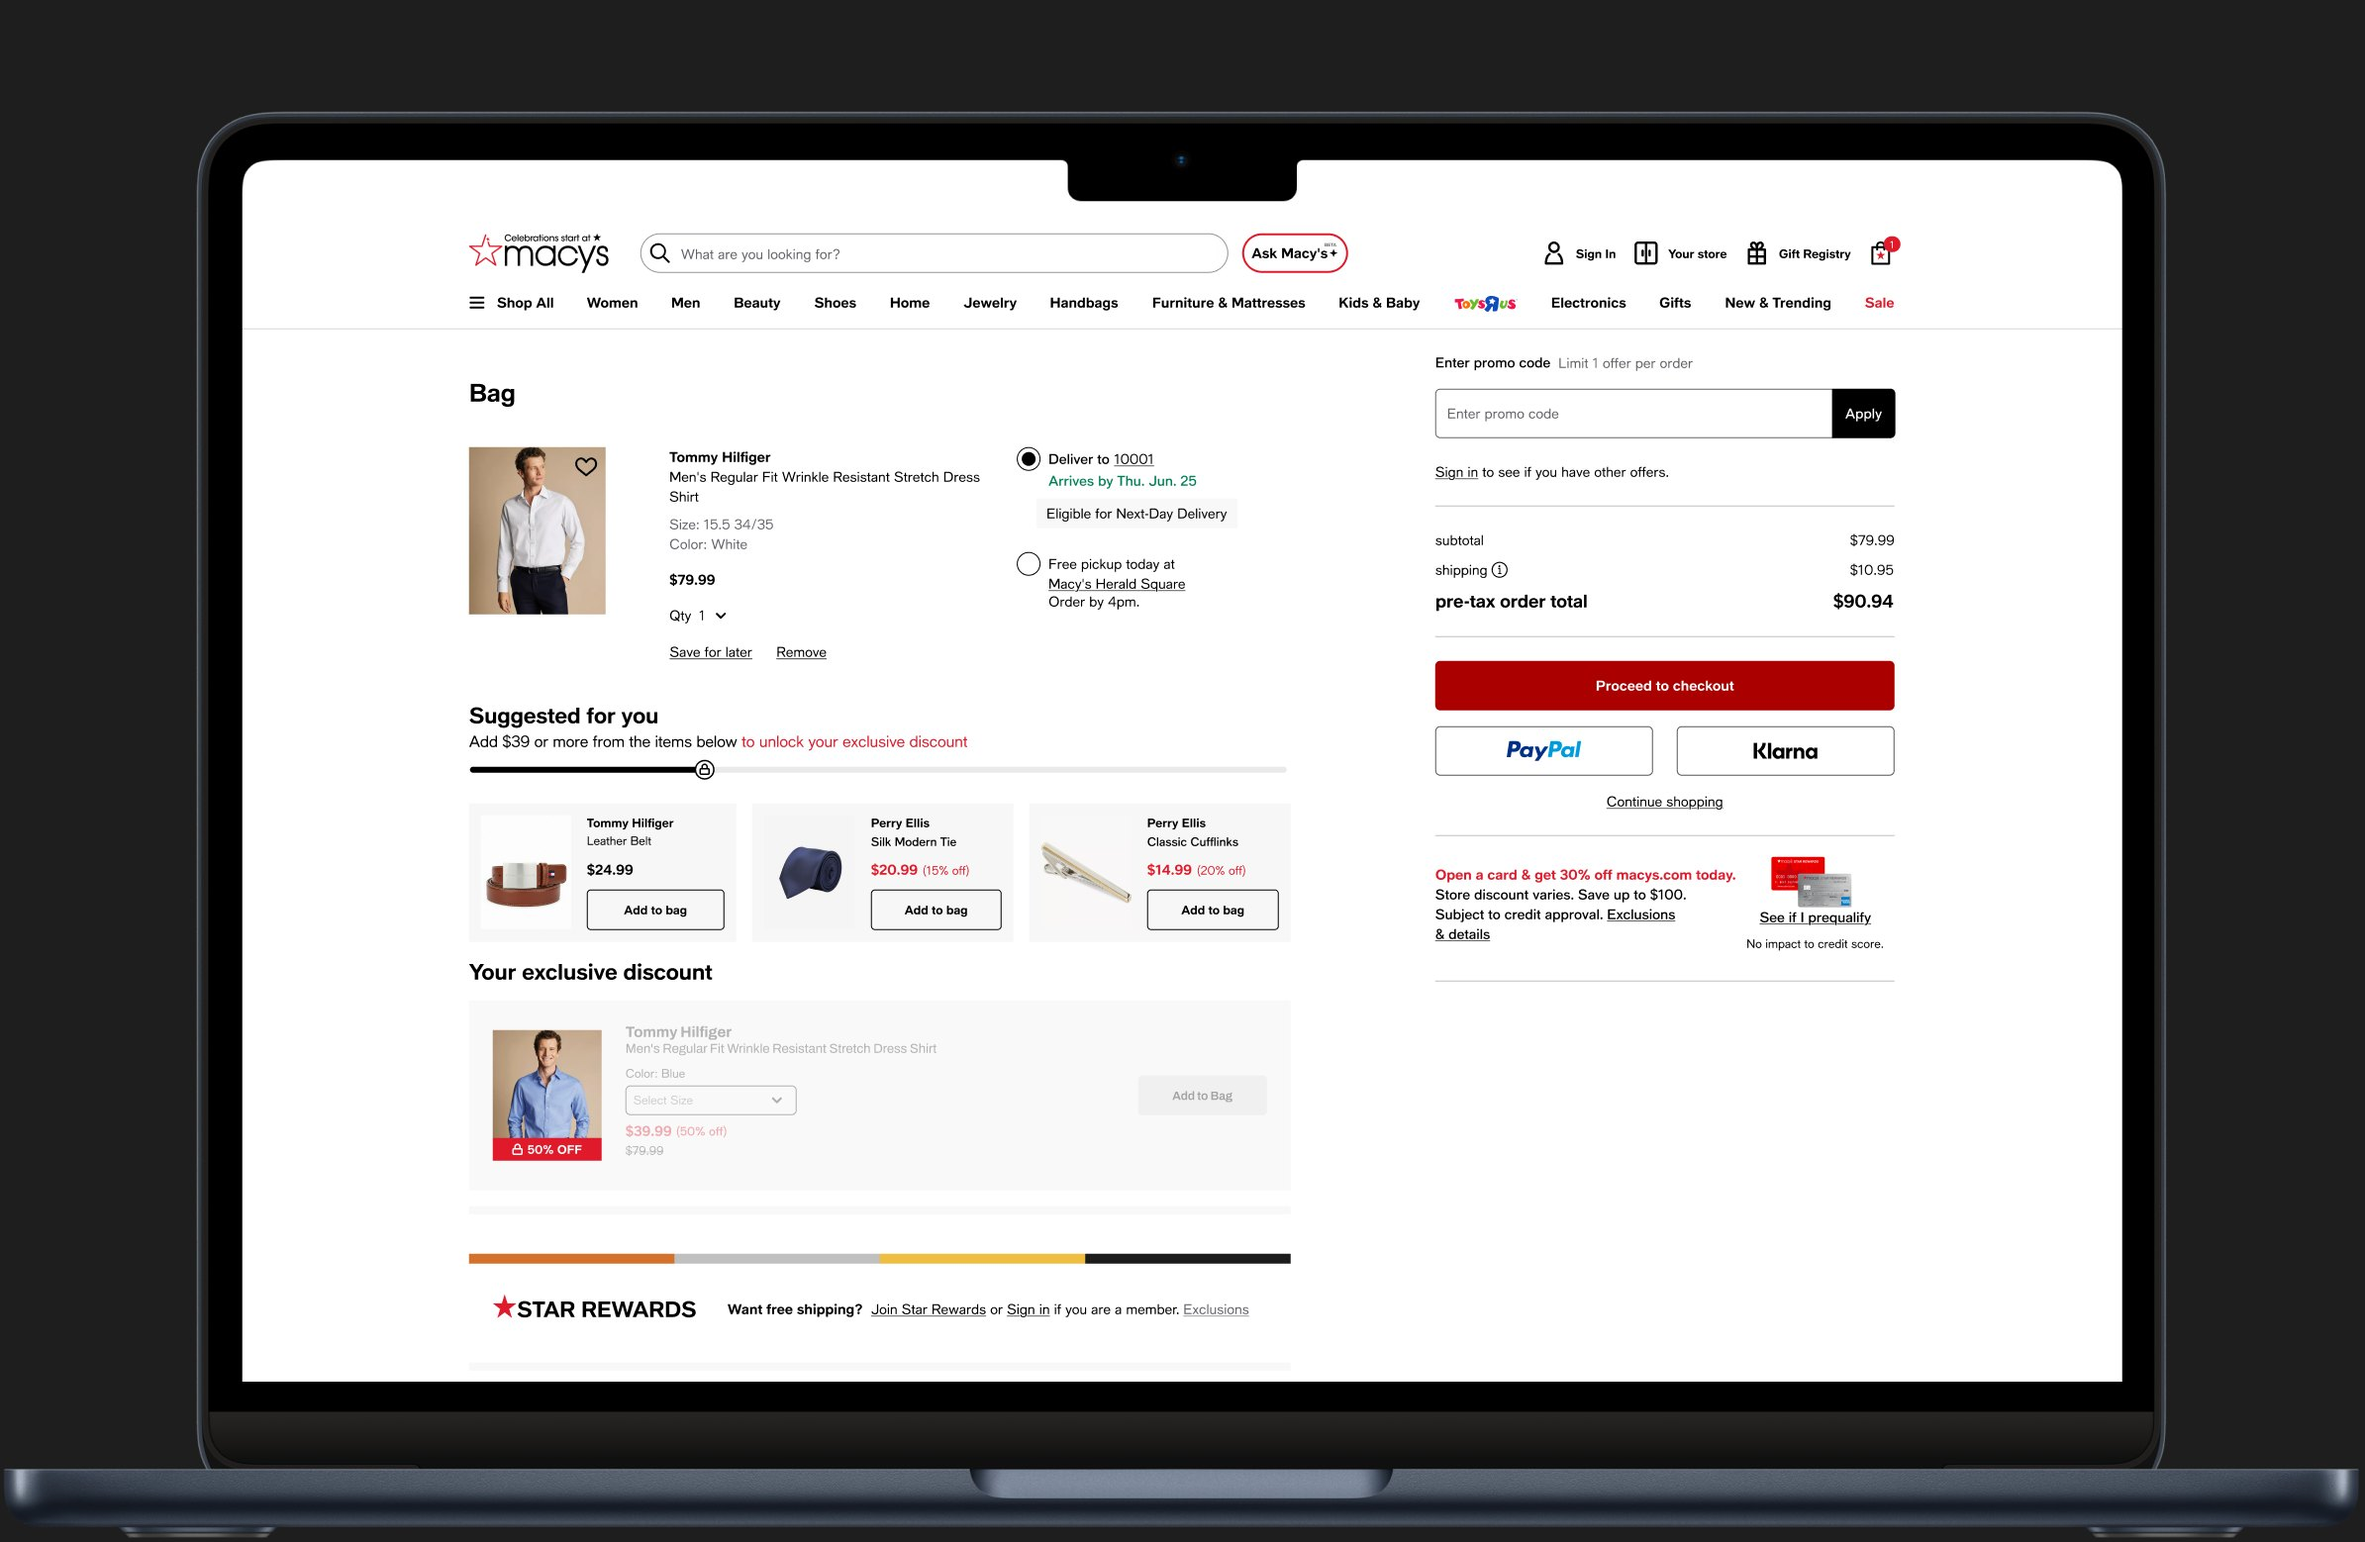
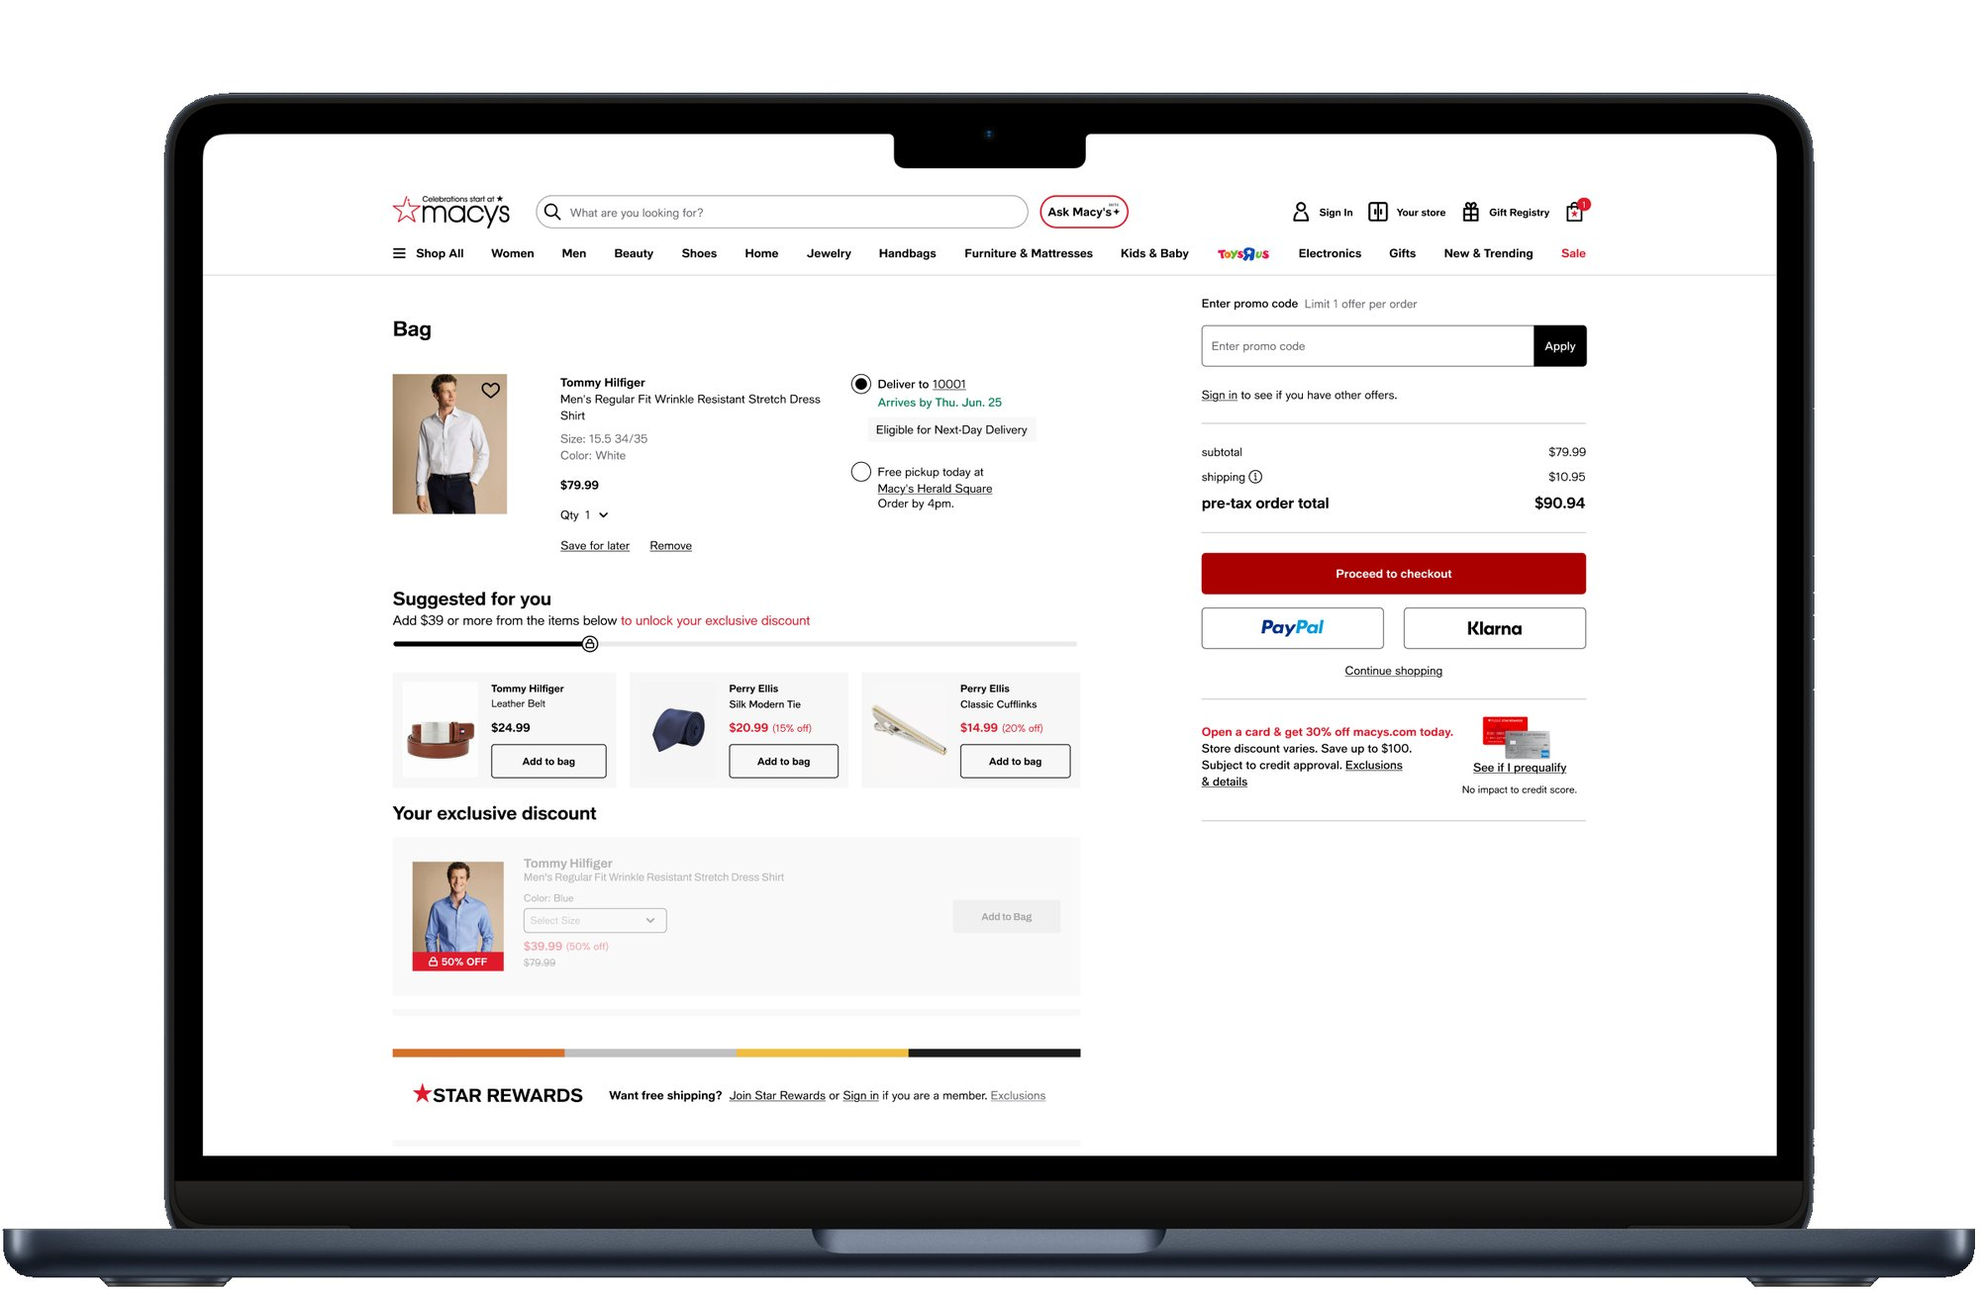
Sit the Macy's and Expedia heroes whole on white
Both are landscape device mockups, and the hero pane is tall. "cover"
scaled them to fill it and cropped the sides, zooming a laptop screen
past the point of being readable, so the pane takes an imageFit of
"contain": the artwork sits whole on white, centred, and is not
parallaxed — shifting a contained image walks its edges away from where
they were placed.

Both exports also carried a baked background, Figma's #1E1E1E behind the
Macy's laptop and an #E9E9E9 ground behind the Expedia devices. Replaced
by flooding from the four corners rather than swapping the colour
globally: the laptop's own bezel sits within a few values of Figma's
canvas, and a global swap would have punched holes in it. About 3% of
each image is still near #1E1E1E, which is the bezels themselves.

Changed region(s): [[0.0, 0.0, 1.0, 1.0], [0.651, 0.5521, 0.682, 0.5828]]

diff --git a/src/PortfolioScroll.tsx b/src/PortfolioScroll.tsx
@@ -26,6 +26,12 @@ export interface ProjectData {
     link?: string
     mediaType?: "image" | "video" | "component"
     videoUrl?: string
+    /**
+     * "contain" sits the artwork whole on white instead of filling the pane.
+     * A landscape mockup cropped to a tall pane is zoomed in past the point
+     * of being readable, which is what "cover" does to it.
+     */
+    imageFit?: "cover" | "contain"
     /** Renders a live component in the hero pane instead of artwork. */
     component?:
         | "uber-loop"
@@ -1170,6 +1176,34 @@ export default function PortfolioScroll({
                                         willChange: "transform",
                                     }}
                                 />
+                            ) : data.imageFit === "contain" ? (
+                                // Whole, on white, and deliberately not
+                                // parallaxed: shifting a contained image
+                                // inside its pane walks its edges away from
+                                // where they were placed.
+                                <div
+                                    style={{
+                                        width: "100%",
+                                        height: "100%",
+                                        backgroundColor: "#FFFFFF",
+                                        display: "flex",
+                                        alignItems: "center",
+                                        justifyContent: "center",
+                                        padding: isMobile ? 16 : 32,
+                                        boxSizing: "border-box",
+                                    }}
+                                >
+                                    <img
+                                        src={data.image.src}
+                                        alt={data.image.alt}
+                                        style={{
+                                            maxWidth: "100%",
+                                            maxHeight: "100%",
+                                            objectFit: "contain",
+                                            display: "block",
+                                        }}
+                                    />
+                                </div>
                             ) : (
                                 <img
                                     data-parallax="true"

diff --git a/src/content.ts b/src/content.ts
@@ -51,6 +51,7 @@ export const projects: ProjectData[] = [
             src: "/projects/project-01.jpg",
             alt: "The Macy's bag page on a laptop",
         },
+        imageFit: "contain",
         thumb: {
             src: "/projects/icon-macys.svg",
             alt: "Macy's",
@@ -149,8 +150,9 @@ export const projects: ProjectData[] = [
         title: "Expedia 1P / 3P",
         image: {
             src: "/projects/project-06.jpg",
-            alt: "Expedia 1P / 3P offers",
+            alt: "The Expedia offer experience on a laptop and a phone",
         },
+        imageFit: "contain",
         thumb: {
             src: "/projects/icon-expedia.svg",
             alt: "Expedia",
